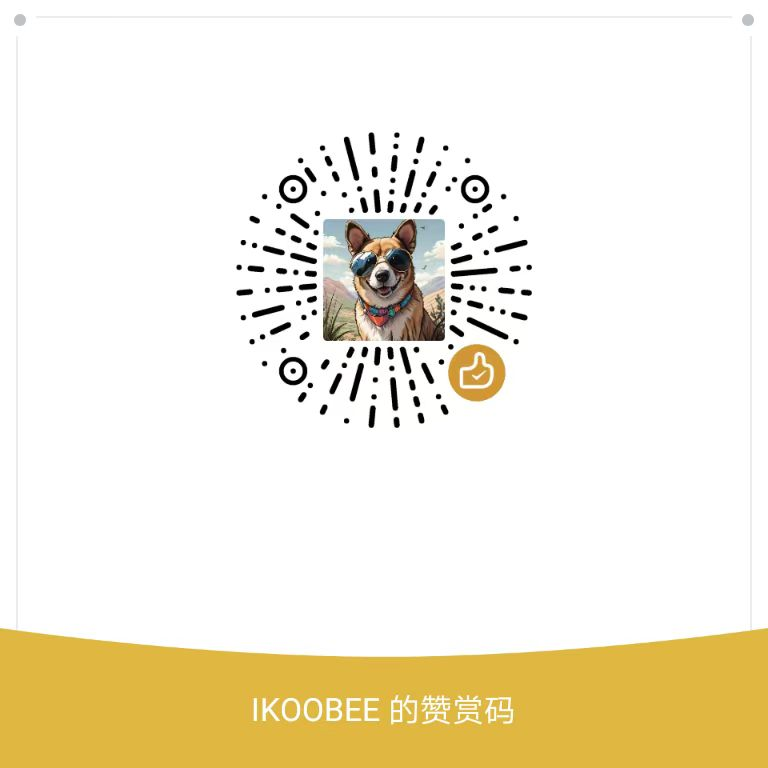
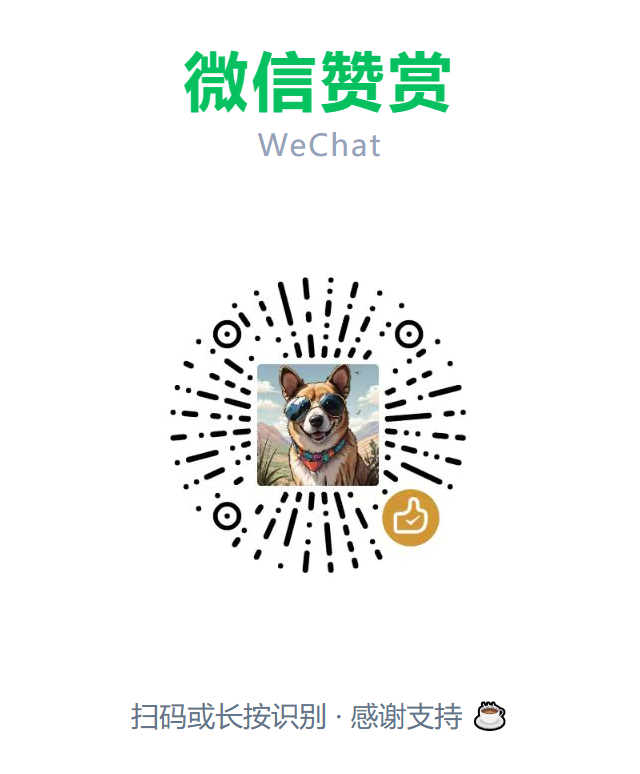
feat(donate): labeled QR cards composed from updated masters
- compose platform-colored labels into the card images themselves
  (WeChat #07C160 / Alipay #1677FF, bilingual + scan hint) so the
  payment channel is identifiable wherever the image is shared
- QR embedded 1:1 at 480 device px (no resampling), cards 640x774 @2x
- drop the modal card titles (now redundant with in-image labels),
  QR displays width-driven with auto height

diff --git a/css/components.css b/css/components.css
@@ -437,6 +437,6 @@ details.fold[open] summary { margin-bottom: 8px; }
 .donate-note { text-align: center; font-size: 13px; color: var(--text-2); line-height: 1.8; margin-bottom: 14px; }
 .donate-row { display: flex; gap: 14px; justify-content: center; }
 .donate-card { text-align: center; }
-.donate-title { font-size: 12.5px; color: var(--text-2); margin-bottom: 8px; }
-.donate-qr { width: 168px; height: 168px; border: 1px solid var(--border); border-radius: 10px; object-fit: contain; background: #fff; }
+/* Composed card image: platform label + QR, aspect ~640x704 → width-driven, height auto */
+.donate-qr { width: 168px; height: auto; border: 1px solid var(--border); border-radius: 10px; object-fit: contain; background: #fff; }
 .donate-missing { display: flex; align-items: center; justify-content: center; font-size: 12px; color: var(--text-3); padding: 8px; box-sizing: border-box; }

diff --git a/js/ui/views/donateModal.js b/js/ui/views/donateModal.js
@@ -7,11 +7,13 @@ import { h } from '../dom.js';
 import { openModal, closeModal } from '../components/modal.js';
 
 function qrCard(title, src, fallbackText) {
+  // The composed image already carries a platform-colored label banner,
+  // so no extra title row is rendered here.
   const img = h('img', {
-    src, alt: `${title} 赞赏码`, class: 'donate-qr',
+    src, alt: `${title}赞赏码`, class: 'donate-qr',
     onerror: () => { img.replaceWith(h('div', { class: 'donate-qr donate-missing' }, fallbackText)); },
   });
-  return h('div', { class: 'donate-card' }, h('div', { class: 'donate-title' }, title), img);
+  return h('div', { class: 'donate-card' }, img);
 }
 
 export function openDonateModal() {
